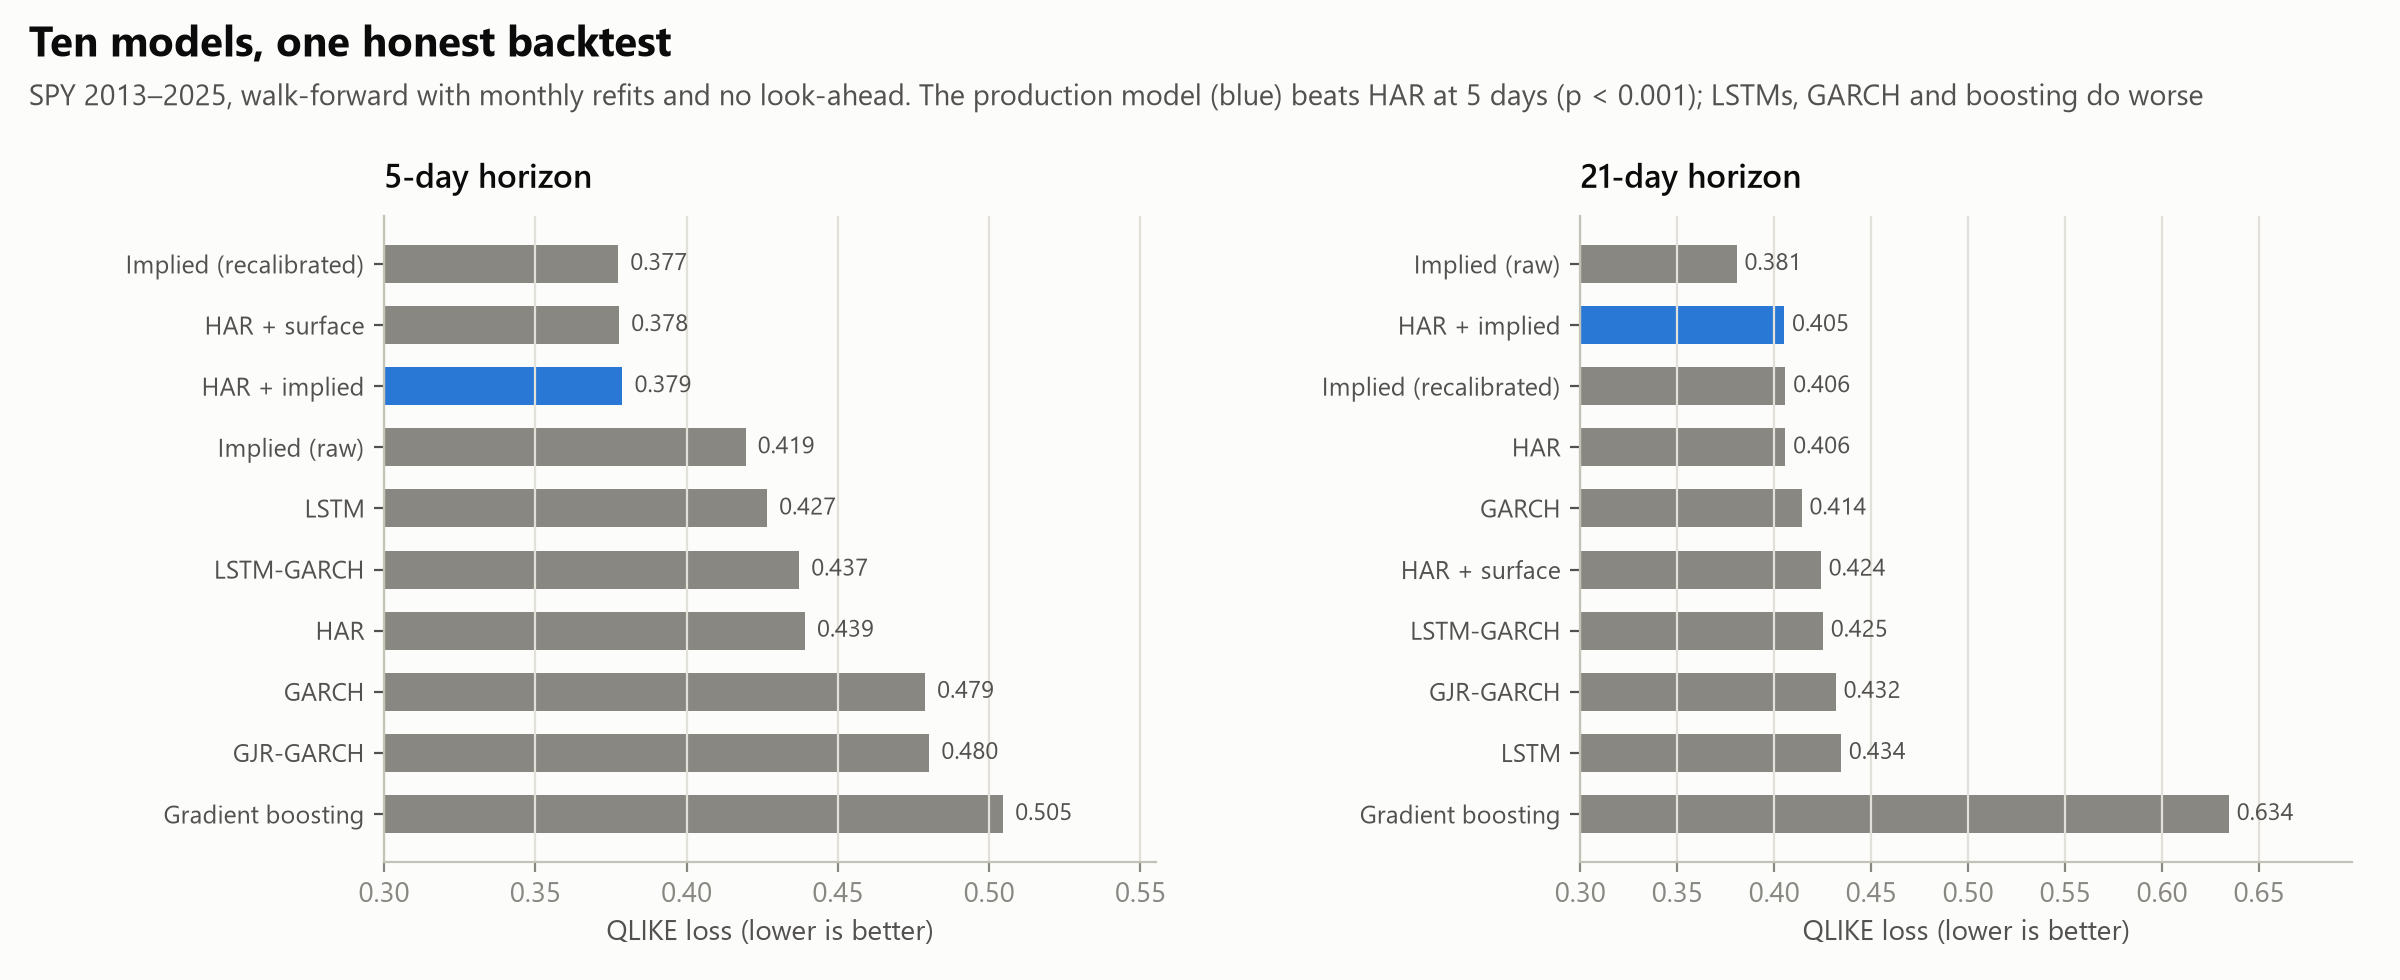
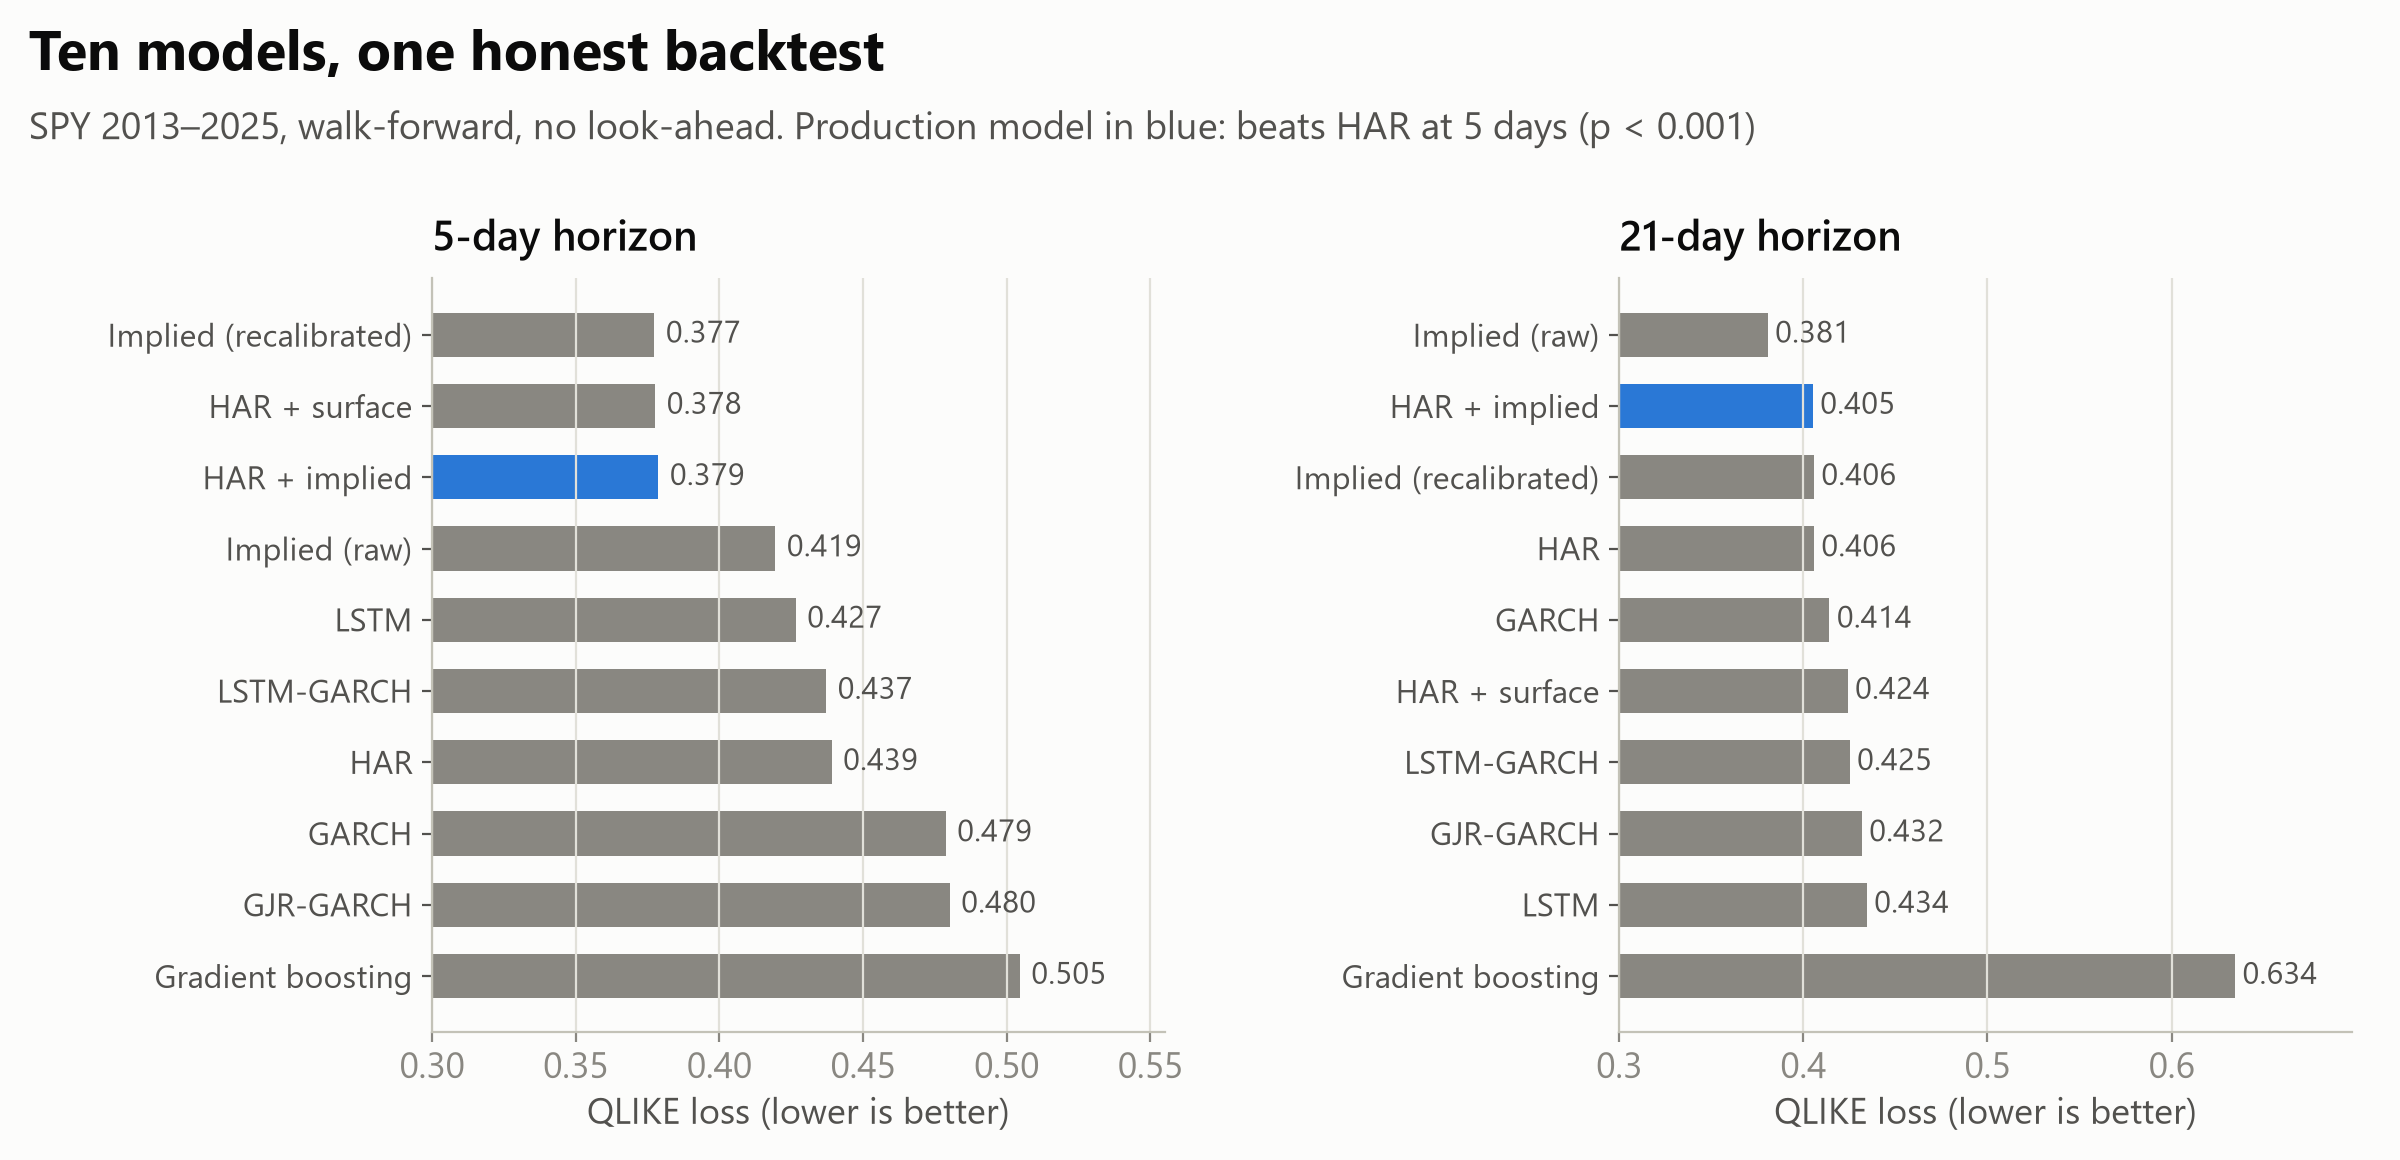
Make the README figures legible at GitHub's width; count notebooks as docs
- Larger fonts throughout (the 2,400 px figures display at ~830 px), a
  bigger hero surface, legends moved clear of the data, shorter subtitles.
- .gitattributes marks *.ipynb as documentation, so GitHub's language bar
  reports a Python project instead of 58% Jupyter Notebook.

diff --git a/scripts/make_readme_figures.py b/scripts/make_readme_figures.py
@@ -38,21 +38,21 @@ DPI = 200
 
 def _style(t) -> None:
     plt.rcParams.update({
-        "font.family": ["Segoe UI", "DejaVu Sans"], "font.size": 10,
+        "font.family": ["Segoe UI", "DejaVu Sans"], "font.size": 13,
         "figure.facecolor": t.surface, "axes.facecolor": t.surface, "savefig.facecolor": t.surface,
         "text.color": t.ink, "axes.labelcolor": t.ink_secondary, "axes.edgecolor": t.axis,
         "xtick.color": t.ink_muted, "ytick.color": t.ink_muted,
         "axes.grid": True, "grid.color": t.grid, "grid.linewidth": 0.8,
         "axes.spines.top": False, "axes.spines.right": False,
         "legend.frameon": False, "legend.labelcolor": t.ink_secondary,
-        "axes.titlesize": 12, "axes.titleweight": "semibold", "axes.titlecolor": t.ink,
+        "axes.titlesize": 15, "axes.titleweight": "semibold", "axes.titlecolor": t.ink,
         "axes.titlelocation": "left", "axes.titlepad": 10,
     })
 
 
 def _title(fig, t, title: str, subtitle: str) -> None:
-    fig.text(0.012, 0.975, title, fontsize=15, fontweight="bold", color=t.ink, va="top")
-    fig.text(0.012, 0.915, subtitle, fontsize=10.5, color=t.ink_secondary, va="top")
+    fig.text(0.012, 0.975, title, fontsize=20, fontweight="bold", color=t.ink, va="top")
+    fig.text(0.012, 0.905, subtitle, fontsize=13.5, color=t.ink_secondary, va="top", wrap=True)
 
 
 def _save(fig, name: str, mode: str) -> None:
@@ -90,8 +90,8 @@ def fig_surface(t) -> None:
 
     cmap = LinearSegmentedColormap.from_list("vol", ("#cde2fb", "#6da7ec", "#256abf", "#104281"))
     lo, hi = np.nanmin(Z), np.nanmax(Z)
-    fig = plt.figure(figsize=(10.5, 6.4))
-    ax = fig.add_axes([-0.04, 0.0, 1.08, 0.9], projection="3d")
+    fig = plt.figure(figsize=(11, 7))
+    ax = fig.add_axes([-0.12, -0.03, 1.24, 1.0], projection="3d")
     ax.set_facecolor(t.surface)
     floor = np.floor(lo) - 1
     ax.plot_surface(X, Y, np.ma.masked_invalid(Z), cmap=cmap, vmin=lo, vmax=hi,
@@ -108,13 +108,13 @@ def fig_surface(t) -> None:
     ax.set_yticks(np.log(ticks), [f"{d_}d" if d_ < 365 else f"{d_ // 365}y" for d_ in ticks])
     ax.set_zlabel("Implied vol (%)", labelpad=8)
     ax.set_ylabel("Tenor", labelpad=10)
-    ax.tick_params(colors=t.ink_muted, labelsize=8.5)
+    ax.tick_params(colors=t.ink_muted, labelsize=11.5)
     ax.view_init(elev=22, azim=-62)
-    ax.set_box_aspect((1.25, 1.1, 0.7), zoom=0.95)
+    ax.set_box_aspect((1.3, 1.1, 0.72), zoom=1.0)
     atm30, p25, c25 = (100 * float(es.iv(es.delta_strike(x, 30 / 365), 30 / 365)) for x in (0.5, -0.25, 0.25))
     _title(fig, t, f"SPY implied-volatility surface · {d.name[5:]}",
-           f"Per-expiry SVI on put-call-parity forwards, 7 days to {int(days[-1])} days. "
-           f"30-day ATM {atm30:.1f}%, 25Δ put {p25:.1f}% vs call {c25:.1f}%: the equity skew")
+           f"Per-expiry SVI fits, 7 days to {int(days[-1]) // 365} years. 30-day ATM {atm30:.1f}%; "
+           f"25Δ put {p25:.1f}% vs call {c25:.1f}%: the equity skew")
     _save(fig, "surface", t.mode)
 
 
@@ -131,9 +131,9 @@ def fig_vix(t) -> None:
     gap = ours.index.to_series().diff() > pd.Timedelta(days=10)     # don't bridge data gaps
     o_plot = ours.where(~gap)
 
-    fig = plt.figure(figsize=(12, 5.2))
-    gs = fig.add_gridspec(1, 3, width_ratios=[2.6, 1, 1], left=0.05, right=0.99,
-                          bottom=0.1, top=0.8, wspace=0.18)
+    fig = plt.figure(figsize=(12, 5.8))
+    gs = fig.add_gridspec(1, 3, width_ratios=[2.6, 1, 1], left=0.055, right=0.99,
+                          bottom=0.12, top=0.76, wspace=0.2)
     main = fig.add_subplot(gs[0])
     main.plot(vix.index, vix, color=t.series[1], lw=1.0, label="VIX (CBOE)")
     main.plot(o_plot.index, o_plot, color=t.series[0], lw=1.0, label="Our SPY 30d variance swap")
@@ -146,12 +146,12 @@ def fig_vix(t) -> None:
         ax.plot(vix.loc[a:z], color=t.series[1], lw=2.0)
         ax.plot(ours.loc[a:z], color=t.series[0], lw=2.0)
         ax.set_title(ttl)
-        ax.tick_params(axis="x", rotation=30, labelsize=8.5)
+        ax.tick_params(axis="x", rotation=30, labelsize=11)
         ax.xaxis.set_major_locator(matplotlib.dates.AutoDateLocator(minticks=3, maxticks=5))
         ax.xaxis.set_major_formatter(matplotlib.dates.DateFormatter("%b %d"))
     _title(fig, t, "Validated against VIX",
-           f"Rebuilt from our fitted SPY smiles, independently of CBOE: level correlation "
-           f"{b['level_corr']:.3f}, mean absolute gap {b['mean_abs_diff']:.2f} vol pts over "
+           f"Rebuilt from our SPY smiles, independently of CBOE: correlation "
+           f"{b['level_corr']:.3f}, mean gap {b['mean_abs_diff']:.2f} vol pts over "
            f"{int(b['n']):,} days")
     _save(fig, "vix_validation", t.mode)
 
@@ -170,22 +170,21 @@ def fig_forecast(t) -> None:
     def br(v):
         return np.where(gap.to_numpy(), np.nan, 100 * v.to_numpy())
 
-    fig, ax = plt.subplots(figsize=(12, 4.8))
-    fig.subplots_adjust(left=0.05, right=0.99, bottom=0.1, top=0.8)
+    fig, ax = plt.subplots(figsize=(12, 5.6))
+    fig.subplots_adjust(left=0.06, right=0.99, bottom=0.08, top=0.72)
     ax.fill_between(x, br(done["lo80_vol"]), br(done["hi80_vol"]), color=t.series[0],
                     alpha=0.16, lw=0, label="80% forecast range")
     ax.plot(x, br(done["implied_vol"]), color=t.series[1], lw=1.2, label="Implied vol at the time")
     ax.plot(x, br(done["forecast_vol"]), color=t.series[0], lw=1.6, label="Model forecast")
     ax.plot(x, br(done["realised_vol"]), color=t.series[2], lw=1.6, label="Realised")
     ax.set_ylabel("21-day volatility (%)")
-    ax.legend(loc="upper right", ncol=4)
+    ax.legend(loc="lower right", bbox_to_anchor=(1.0, 1.0), ncol=4, fontsize=11.5)
     inside = ((done.realised_vol >= done.lo80_vol) & (done.realised_vol <= done.hi80_vol)).mean()
     err_m = 100 * np.sqrt(((done.forecast_vol - done.realised_vol) ** 2).mean())
     err_i = 100 * np.sqrt(((done.implied_vol - done.realised_vol) ** 2).mean())
     _title(fig, t, "Out-of-sample volatility forecasts · SPY, 21 trading days",
-           f"Walk-forward HAR + implied vol, each point plotted when its window closed. "
-           f"RMSE {err_m:.1f} vs {err_i:.1f} vol pts for raw implied; "
-           f"{100 * inside:.0f}% of outcomes inside the 80% range")
+           f"Walk-forward HAR + implied vol, plotted when each window closed. RMSE "
+           f"{err_m:.1f} vs {err_i:.1f} pts for raw implied; the 80% range held {100 * inside:.0f}% of outcomes")
     _save(fig, "forecast", t.mode)
 
 
@@ -200,23 +199,22 @@ def _qlike_table(md: str, horizon: str) -> pd.Series:
 def fig_models(t) -> None:
     md = (ROOT / "docs/forecast_evaluation.md").read_text(encoding="utf-8")
     period = re.search(r"Walk-forward, (\d{4})-\d\d-\d\d to (\d{4})", md).groups()
-    fig, axes = plt.subplots(1, 2, figsize=(12, 4.9))
-    fig.subplots_adjust(left=0.16, right=0.98, bottom=0.12, top=0.78, wspace=0.55)
+    fig, axes = plt.subplots(1, 2, figsize=(12, 5.8))
+    fig.subplots_adjust(left=0.18, right=0.98, bottom=0.11, top=0.76, wspace=0.62)
     for ax, h in zip(axes, ("5", "21")):
         q = _qlike_table(md, h).sort_values(ascending=False)
         colors = [t.series[0] if m == "HAR + implied" else t.ink_muted for m in q.index]
         ax.barh(q.index, q.values, color=colors, height=0.62)
         for y, v in enumerate(q.values):
-            ax.text(v + 0.004, y, f"{v:.3f}", va="center", fontsize=8.5, color=t.ink_secondary)
+            ax.text(v + 0.004, y, f"{v:.3f}", va="center", fontsize=11, color=t.ink_secondary)
         ax.set_title(f"{h}-day horizon")
         ax.set_xlabel("QLIKE loss (lower is better)")
         ax.set_xlim(0.3, q.max() * 1.1)
         ax.grid(axis="y", visible=False)
-        ax.tick_params(axis="y", labelsize=9, colors=t.ink_secondary)
+        ax.tick_params(axis="y", labelsize=11.5, colors=t.ink_secondary)
     _title(fig, t, "Ten models, one honest backtest",
-           f"SPY {period[0]}–{period[1]}, walk-forward with monthly refits and no look-ahead. "
-           "The production model (blue) beats HAR at 5 days (p < 0.001); LSTMs, GARCH and "
-           "boosting do worse")
+           f"SPY {period[0]}–{period[1]}, walk-forward, no look-ahead. Production model in blue: "
+           "beats HAR at 5 days (p < 0.001)")
     _save(fig, "models", t.mode)
 
 
@@ -231,18 +229,18 @@ def fig_cross(t) -> None:
     order = [tk for ts in GROUPS.values() for tk in ts if tk in s.index]
     s = s.loc[order]
 
-    fig, ax = plt.subplots(figsize=(12, 5.4))
-    fig.subplots_adjust(left=0.05, right=0.99, bottom=0.17, top=0.76)
+    fig, ax = plt.subplots(figsize=(12, 6.2))
+    fig.subplots_adjust(left=0.06, right=0.99, bottom=0.15, top=0.72)
     x = np.arange(len(order))
     iv, rv = 100 * s["atm_30d"], 100 * s["rv_cc_21d"]
     ax.vlines(x, np.minimum(iv, rv), np.maximum(iv, rv), color=t.axis, lw=1.4, zorder=1)
     ax.scatter(x, rv, s=34, facecolor=t.surface, edgecolor=t.series[1], lw=1.6, zorder=2,
                label="Realised vol, last 21 days")
     ax.scatter(x, iv, s=38, color=t.series[0], zorder=3, label="30-day implied vol (ATM)")
-    ax.set_xticks(x, order, rotation=90, fontsize=8.5)
+    ax.set_xticks(x, order, rotation=90, fontsize=10.5)
     ax.set_xlim(-0.8, len(order) - 0.2)
     ax.set_ylabel("Volatility (%)")
-    ax.legend(loc="lower right", bbox_to_anchor=(1.0, 1.0), ncol=2, fontsize=9.5)
+    ax.legend(loc="lower right", bbox_to_anchor=(1.0, 1.0), ncol=2, fontsize=11.5)
     ax.grid(axis="x", visible=False)
     ymax = np.nanmax([iv.max(), rv.max()])
     start = 0
@@ -252,13 +250,15 @@ def fig_cross(t) -> None:
             continue
         if start:
             ax.axvline(start - 0.5, color=t.grid, lw=1.2, zorder=0)
-        ax.text(start + (n - 1) / 2, ymax * 1.06, g, ha="center", fontsize=8.5,
+        short = {"US equity indices": "Indices", "Rates and credit": "Rates & credit",
+                 "International": "Intl", "Crypto and VIX": "Crypto, VIX"}.get(g, g)
+        ax.text(start + (n - 1) / 2, ymax * 1.06, short, ha="center", fontsize=10.5,
                 color=t.ink_secondary)
         start += n
     ax.set_ylim(0, ymax * 1.14)
     _title(fig, t, f"{len(order)} underlyings, one daily pipeline · {day:%Y-%m-%d}",
-           "Implied above realised is the volatility risk premium; credit and Treasury ETFs sit "
-           "low, crypto and single stocks high")
+           "Implied above realised is the volatility risk premium. Credit and Treasuries sit "
+           "low; crypto and single stocks high")
     _save(fig, "cross_asset", t.mode)
 
 
